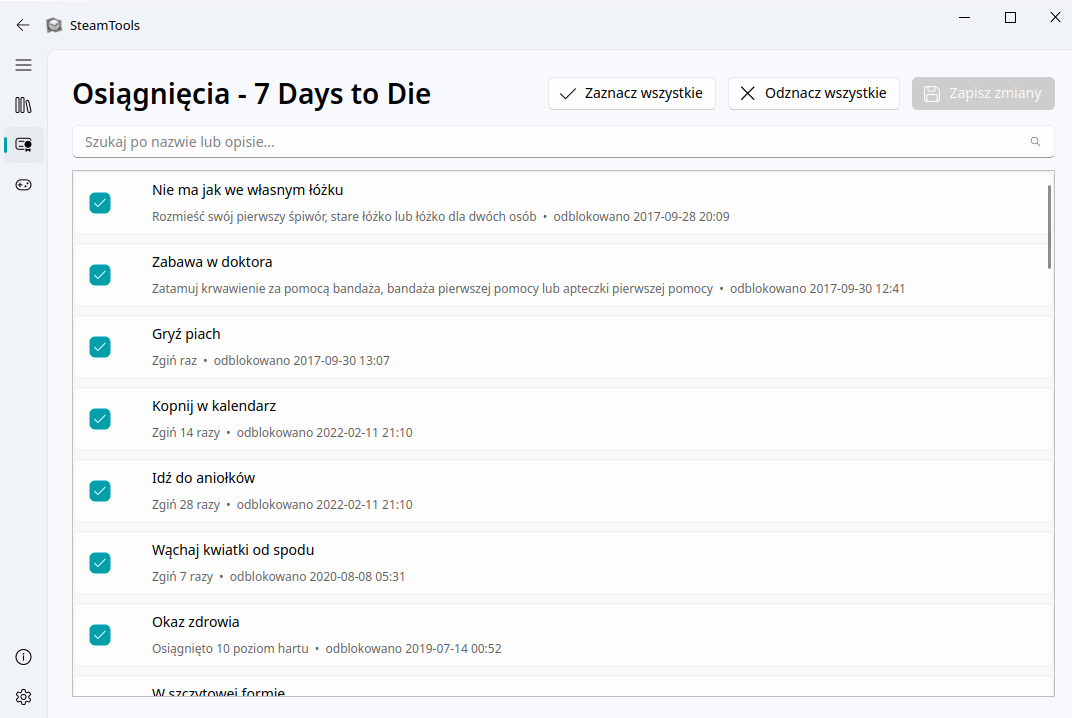
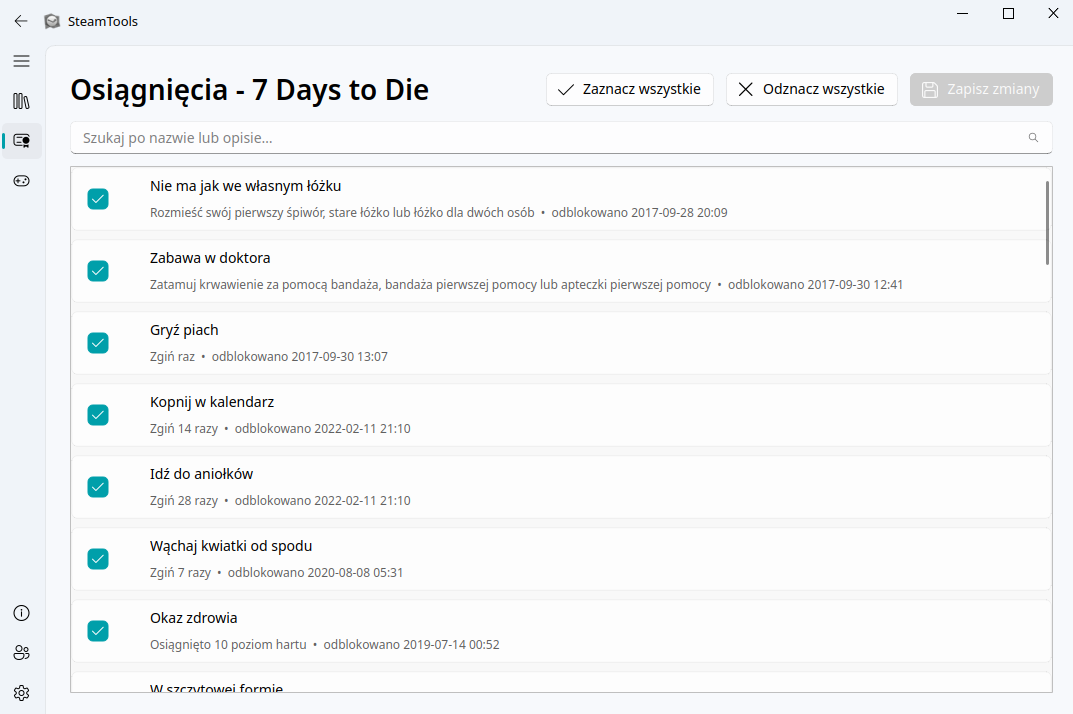
update

diff --git a/steamtools/core/config.py b/steamtools/core/config.py
@@ -12,6 +12,7 @@ from __future__ import annotations
 
 import json
 import os
+import sys
 from dataclasses import dataclass, field
 from pathlib import Path
 
@@ -23,6 +24,42 @@ def _config_dir() -> Path:
     xdg_config = os.environ.get("XDG_CONFIG_HOME")
     base = Path(xdg_config) if xdg_config else Path.home() / ".config"
     return base / "steamtools"
+
+
+def _project_root() -> Path:
+    """Katalog, względem którego szukamy plików repo (VERSION, ROADMAP.md)
+    - NIE ~/.config, bo te pliki są częścią kodu/repo, nie stanu usera.
+    Dwie różne bazy zależnie od trybu uruchomienia:
+    - PyInstaller --onedir (patrz packaging/steamtools.spec): pliki z
+      `datas=[...]` lądują obok binarki, ścieżka do nich to sys._MEIPASS
+      (ustawiane przez sam PyInstaller w runtime, nie ma go przy zwykłym
+      `python -m steamtools.app`).
+    - Uruchomienie z kodu źródłowego (./run.sh, `python -m steamtools.app`):
+      ten plik siedzi w steamtools/core/config.py, więc korzeń repo jest
+      dwa poziomy wyżej."""
+    meipass = getattr(sys, "_MEIPASS", None)
+    if meipass:
+        return Path(meipass)
+    return Path(__file__).resolve().parent.parent.parent
+
+
+def get_app_version() -> str:
+    """Wersja aplikacji z pliku VERSION w korzeniu repo - JEDYNE źródło
+    prawdy, żeby uniknąć dokładnie tego, co działo się wcześniej: build.sh
+    przyjmował numer wersji jako argument (do nazwy paczki .deb/AppImage),
+    ale sam kod Pythona (ui/views/about_view.py) miał wersję wpisaną na
+    sztywno osobnym literałem - zakładka Informacje pokazywała "0.1.0"
+    nawet gdy paczka nazywała się "steamtools_0.1.2_amd64.deb". Teraz
+    zarówno build.sh/build_deb.sh (przez `cat VERSION`), jak i ten kod w
+    runtime, czytają dokładnie ten sam plik.
+    "dev" jako fallback (plik nie istnieje/nie do odczytu) zamiast
+    wyjątku - lepiej pokazać coś niż wywalić całą zakładkę Informacje
+    z powodu brakującego pliku wersji."""
+    version_file = _project_root() / "VERSION"
+    try:
+        return version_file.read_text(encoding="utf-8").strip() or "dev"
+    except OSError:
+        return "dev"
 
 
 def _idle_queue_path() -> Path:

diff --git a/steamtools/app.py b/steamtools/app.py
@@ -2,6 +2,7 @@
 
 from __future__ import annotations
 
+import faulthandler
 import multiprocessing as mp
 import sys
 
@@ -50,6 +51,14 @@ def main() -> int:
 
 
 if __name__ == "__main__":
+    # faulthandler.enable() sprawia, że segfault ("Naruszenie ochrony
+    # pamięci") wypisuje na stderr Python-owy stack trace (który moduł/
+    # linia była wykonywana w momencie crasha) zamiast gołego komunikatu
+    # od jądra bez żadnego kontekstu. Bez tego debugowanie segfaultów w
+    # aplikacji PyQt6+ctypes (Steamworks SDK ładowane przez ctypes, patrz
+    # core/steamworks.py) sprowadza się do zgadywania - segfault z
+    # definicji omija normalną obsługę wyjątków Pythona.
+    faulthandler.enable()
     # KRYTYCZNE dla spakowanej binarki (PyInstaller --onedir, patrz
     # packaging/steamtools.spec i build_deb.sh): każdy proces idle
     # (steamtools/core/idler.py -> IdleManager, mp.get_context("spawn"))

diff --git a/steamtools/ui/views/about_view.py b/steamtools/ui/views/about_view.py
@@ -25,7 +25,9 @@ from qfluentwidgets import (
     IndeterminateProgressBar,
 )
 
-__version__ = "0.1.0"
+from steamtools.core.config import get_app_version
+
+__version__ = get_app_version()
 
 _REPO_URL = "https://github.com/PaffcioStudio/steamtools"
 _ROADMAP_FILE = "ROADMAP.md"
